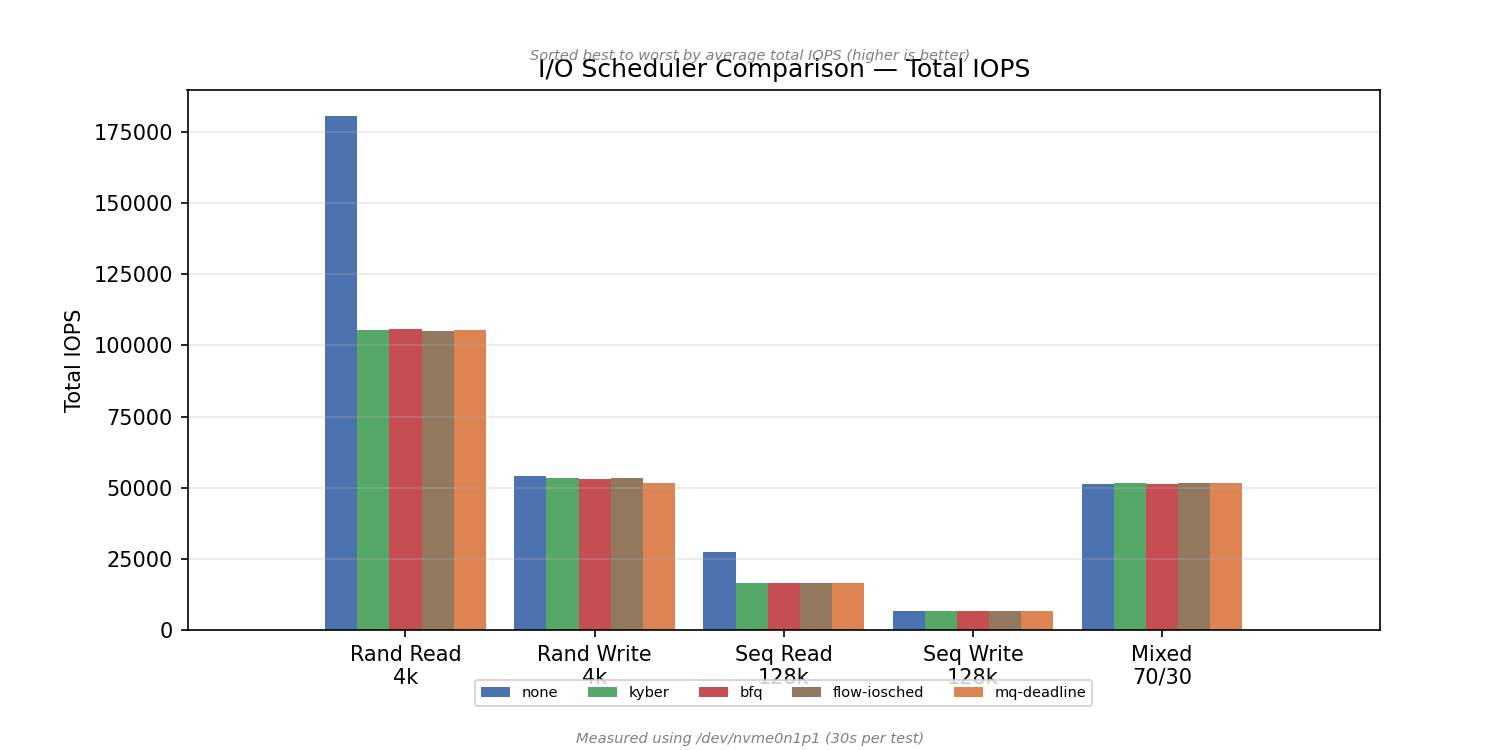
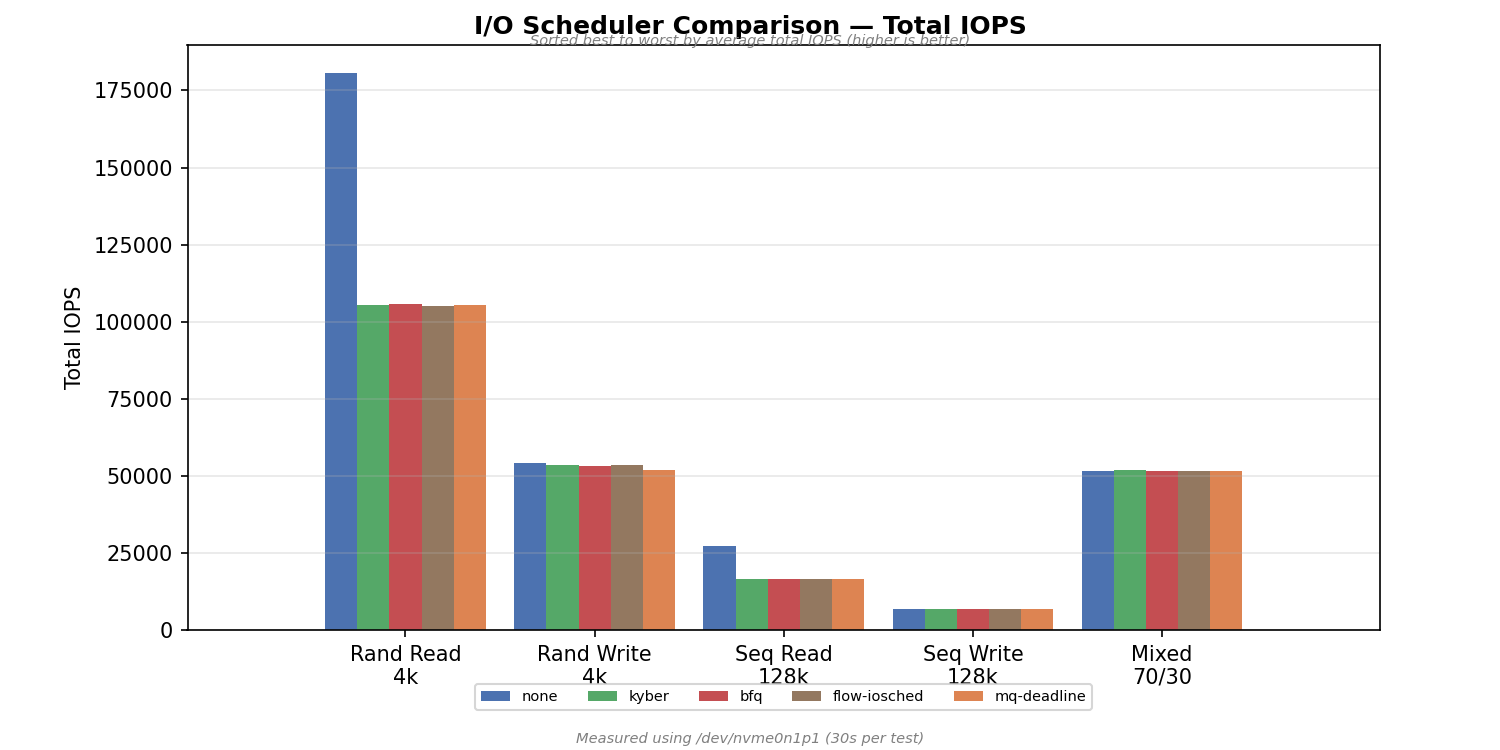
plot: fix title/subtitle overlap using testing-scx_flow positioning approach
Use fig.suptitle() for main title, fig.text(0.5, 0.955, va='top') for subtitle, and subplots_adjust(top=0.94) to reserve top 6% for title area — matching how mini_benchmarker_plot.py positions titles in testing-scx_flow.

diff --git a/bench-tests/plot-results.py b/bench-tests/plot-results.py
@@ -109,9 +109,9 @@ def add_measurement_label(fig):
         fig.text(0.5, 0.01, MEASUREMENT_LABEL, ha="center",
                  fontsize=7, style="italic", color="gray")
 
-def add_sorting_note(fig, note, y=0.92):
-    """Add a gray italic sorting note below the main title."""
-    fig.text(0.5, y, note, ha="center", fontsize=7, style="italic", color="gray")
+def add_sorting_note(fig, note):
+    """Add a gray italic sorting note just below the suptitle."""
+    fig.text(0.5, 0.955, note, ha="center", va="top", fontsize=7, style="italic", color="gray")
 
 def annotate_bars(ax, bars, values, pad_ratio=0.02):
     """Annotate each bar with its value, offset slightly to the right."""
@@ -151,14 +151,14 @@ for i, sched in enumerate(sched_order_iops):
     annotate_bars(ax, bars, vals)
 
 ax.set_ylabel("Total IOPS")
-ax.set_title("I/O Scheduler Comparison — Total IOPS")
+fig.suptitle("I/O Scheduler Comparison — Total IOPS", fontsize=12, fontweight="bold")
 add_sorting_note(fig, "Sorted best to worst by average total IOPS (higher is better)")
 ax.set_xticks(x + width * (len(schedulers) - 1) / 2)
 ax.set_xticklabels(wl_labels)
 ax.legend(loc="upper center", bbox_to_anchor=(0.5, -0.08), ncol=len(schedulers), fontsize=7)
 ax.grid(axis="y", alpha=0.3)
 ax.margins(x=0.15)
-fig.subplots_adjust(bottom=0.16, right=0.92)
+fig.subplots_adjust(top=0.94, bottom=0.16, right=0.92)
 add_measurement_label(fig)
 fig.savefig(f"{CHARTS}/iops.png", dpi=150)
 plt.close(fig)
@@ -190,7 +190,7 @@ for i, sched in enumerate(sched_order_lat):
     # annotate_bars(ax, bars, vals)
 
 ax.set_ylabel("Read latency (µs)")
-ax.set_title("I/O Scheduler Comparison — Read Latency")
+fig.suptitle("I/O Scheduler Comparison — Read Latency", fontsize=12, fontweight="bold")
 add_sorting_note(fig, "Sorted best to worst by average read latency (lower is better)")
 ax.set_xticks(x + width * (len(schedulers) - 1) / 2)
 ax.set_xticklabels(wl_labels)
@@ -208,7 +208,7 @@ ax.legend(loc="upper center", bbox_to_anchor=(0.5, -0.08), ncol=len(schedulers),
 ax.grid(axis="y", alpha=0.3)
 ax.set_yscale("log")
 ax.margins(x=0.15)
-fig.subplots_adjust(bottom=0.16, right=0.92)
+fig.subplots_adjust(top=0.94, bottom=0.16, right=0.92)
 add_measurement_label(fig)
 fig.savefig(f"{CHARTS}/latency.png", dpi=150)
 plt.close(fig)
@@ -235,9 +235,9 @@ for wi, wl in enumerate(workloads):
     for bar, val in zip(bars, iops):
         ax.text(bar.get_width() * 1.01, bar.get_y() + bar.get_height() / 2,
                 fmt_val(val), va="center", fontsize=7)
-fig.suptitle("Per-Workload IOPS", fontsize=12)
-add_sorting_note(fig, "Sorted best to worst per workload (higher is better)", y=0.90)
-fig.tight_layout(rect=[0, 0.03, 1, 1])
+fig.suptitle("Per-Workload IOPS", fontsize=12, fontweight="bold")
+add_sorting_note(fig, "Sorted best to worst per workload (higher is better)")
+fig.tight_layout(rect=(0, 0, 1, 0.94))
 add_measurement_label(fig)
 fig.savefig(f"{CHARTS}/per_workload.png", dpi=150)
 plt.close(fig)
@@ -300,8 +300,8 @@ for ax_i, (title, direction, extractor, qualifies) in enumerate(metrics):
 
 fig.suptitle("I/O Scheduler Comparison — Consolidated Averages",
              fontsize=12, fontweight="bold")
-add_sorting_note(fig, "Sorted best to worst per metric", y=0.93)
-fig.tight_layout(rect=[0, 0.03, 1, 1])
+add_sorting_note(fig, "Sorted best to worst per metric")
+fig.tight_layout(rect=(0, 0, 1, 0.94))
 add_measurement_label(fig)
 fig.savefig(f"{CHARTS}/comparison.png", dpi=150)
 plt.close(fig)
